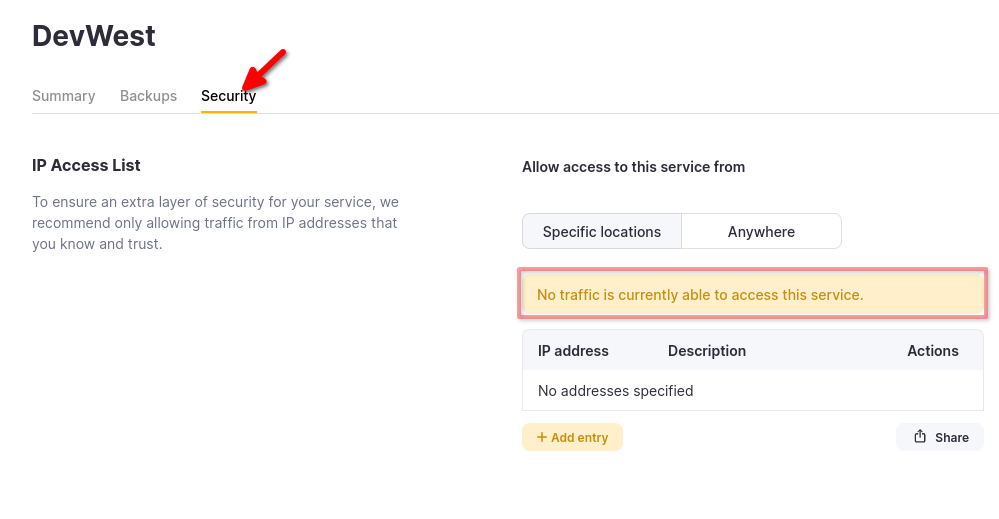
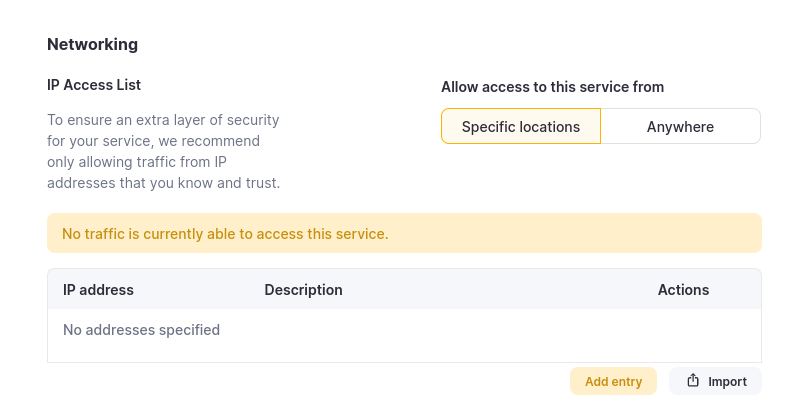
move access list and reset to settings tab

diff --git a/docs/en/cloud/security/ip-access-list.md b/docs/en/cloud/security/ip-access-list.md
@@ -14,20 +14,20 @@ If you skip the creation of the IP Access List for a ClickHouse Cloud service th
 :::
 
 ## Prepare
-Before you begin, collect the IP Addresses or ranges that should be added to the access list.  Take into consideration remote workers, on-call locations, VPNs, etc.  The IP Access List user interface accepts individual addresses and CIDR notation.
+Before you begin, collect the IP Addresses or ranges that should be added to the access list.  Take into consideration remote workers, on-call locations, VPNs, etc. The IP Access List user interface accepts individual addresses and CIDR notation.
 
-Classless Inter-domain Routing (CIDR) notation, allows you to speciffy IP Address ranges smaller than the traditional Class A, B, or C (8, 6, or 24) subnet mask sizes. [ARIN](https://account.arin.net/public/cidrCalculator) and several other organizations provide CIDR calculators if you need one, and if you would like more information on CIDR notation, please see the [Classless Inter-domain Routing (CIDR)](https://www.rfc-editor.org/rfc/rfc4632.html) RFC.
+Classless Inter-domain Routing (CIDR) notation, allows you to specify IP Address ranges smaller than the traditional Class A, B, or C (8, 6, or 24) subnet mask sizes. [ARIN](https://account.arin.net/public/cidrCalculator) and several other organizations provide CIDR calculators if you need one, and if you would like more information on CIDR notation, please see the [Classless Inter-domain Routing (CIDR)](https://www.rfc-editor.org/rfc/rfc4632.html) RFC.
 
 ## Create or modify an IP Access List
 
-From your ClickHouse Cloud services list select the service and then select **Security**.  This will show the existing IP Access List, which may be set to:
+From your ClickHouse Cloud services list select the service and then select **Settings**.  This will show the existing IP Access List, which may be set to:
 - Allow incoming traffic from anywhere to the service
 - Allow access from specific locations to the service
 - Deny all access to the service
 
 This screenshot shows an access list which allows traffic from a range of IP Addresses, described as "NY Office range":
 
-  ![Existing access list](@site/docs/en/_snippets/images/ip-filtering-after-provisioning.png)
+  ![Existing access list](@site/docs/en/cloud/security/images/ip-filtering-after-provisioning.png)
 
 ### Possible actions
 
@@ -97,5 +97,5 @@ If you do not configure an IP Access List, then there will be no access to your 
 
 ## Limitations
 
-- Currently IP Access Lists support only IPV4
+- Currently, IP Access Lists support only IPv4
 

diff --git a/docs/en/_snippets/_check_ip_access_list_detail.md b/docs/en/_snippets/_check_ip_access_list_detail.md
@@ -1,6 +1,10 @@
 <details><summary>Manage your IP Access List</summary>
 
-From your ClickHouse Cloud services list choose the service that you will work with and switch to **Security**.  If the IP Access List shows that **No traffic is currently able to access this service** then you can resolve the problem with **Add entry**:
+From your ClickHouse Cloud services list choose the service that you will work with and switch to **Settings**.
+
+![Settings for your service](@site/docs/en/_snippets/images/cloud-service-settings.png)
+
+If the IP Access List shows that **No traffic is currently able to access this service** then you can resolve the problem with **Add entry**:
 
 ![Check to see if the service allows traffic](@site/docs/en/_snippets/images/ip-allow-list-check-list.png)
 

diff --git a/docs/en/cloud/manage/backups.md b/docs/en/cloud/manage/backups.md
@@ -51,7 +51,7 @@ The new service is restored from backup with the same IP Allow List as the origi
 #### On the newly restored ClickHouse service (the system that hosts the restored data)
 
 :::note
-You will need to reset the password for the new service in order to access it, you can do that from the service list.
+You will need to reset the password for the new service in order to access it, you can do that from the service list **Settings** tab.
 :::
 
 - Add a read only user that can read the source table (`db.table` in this example)
